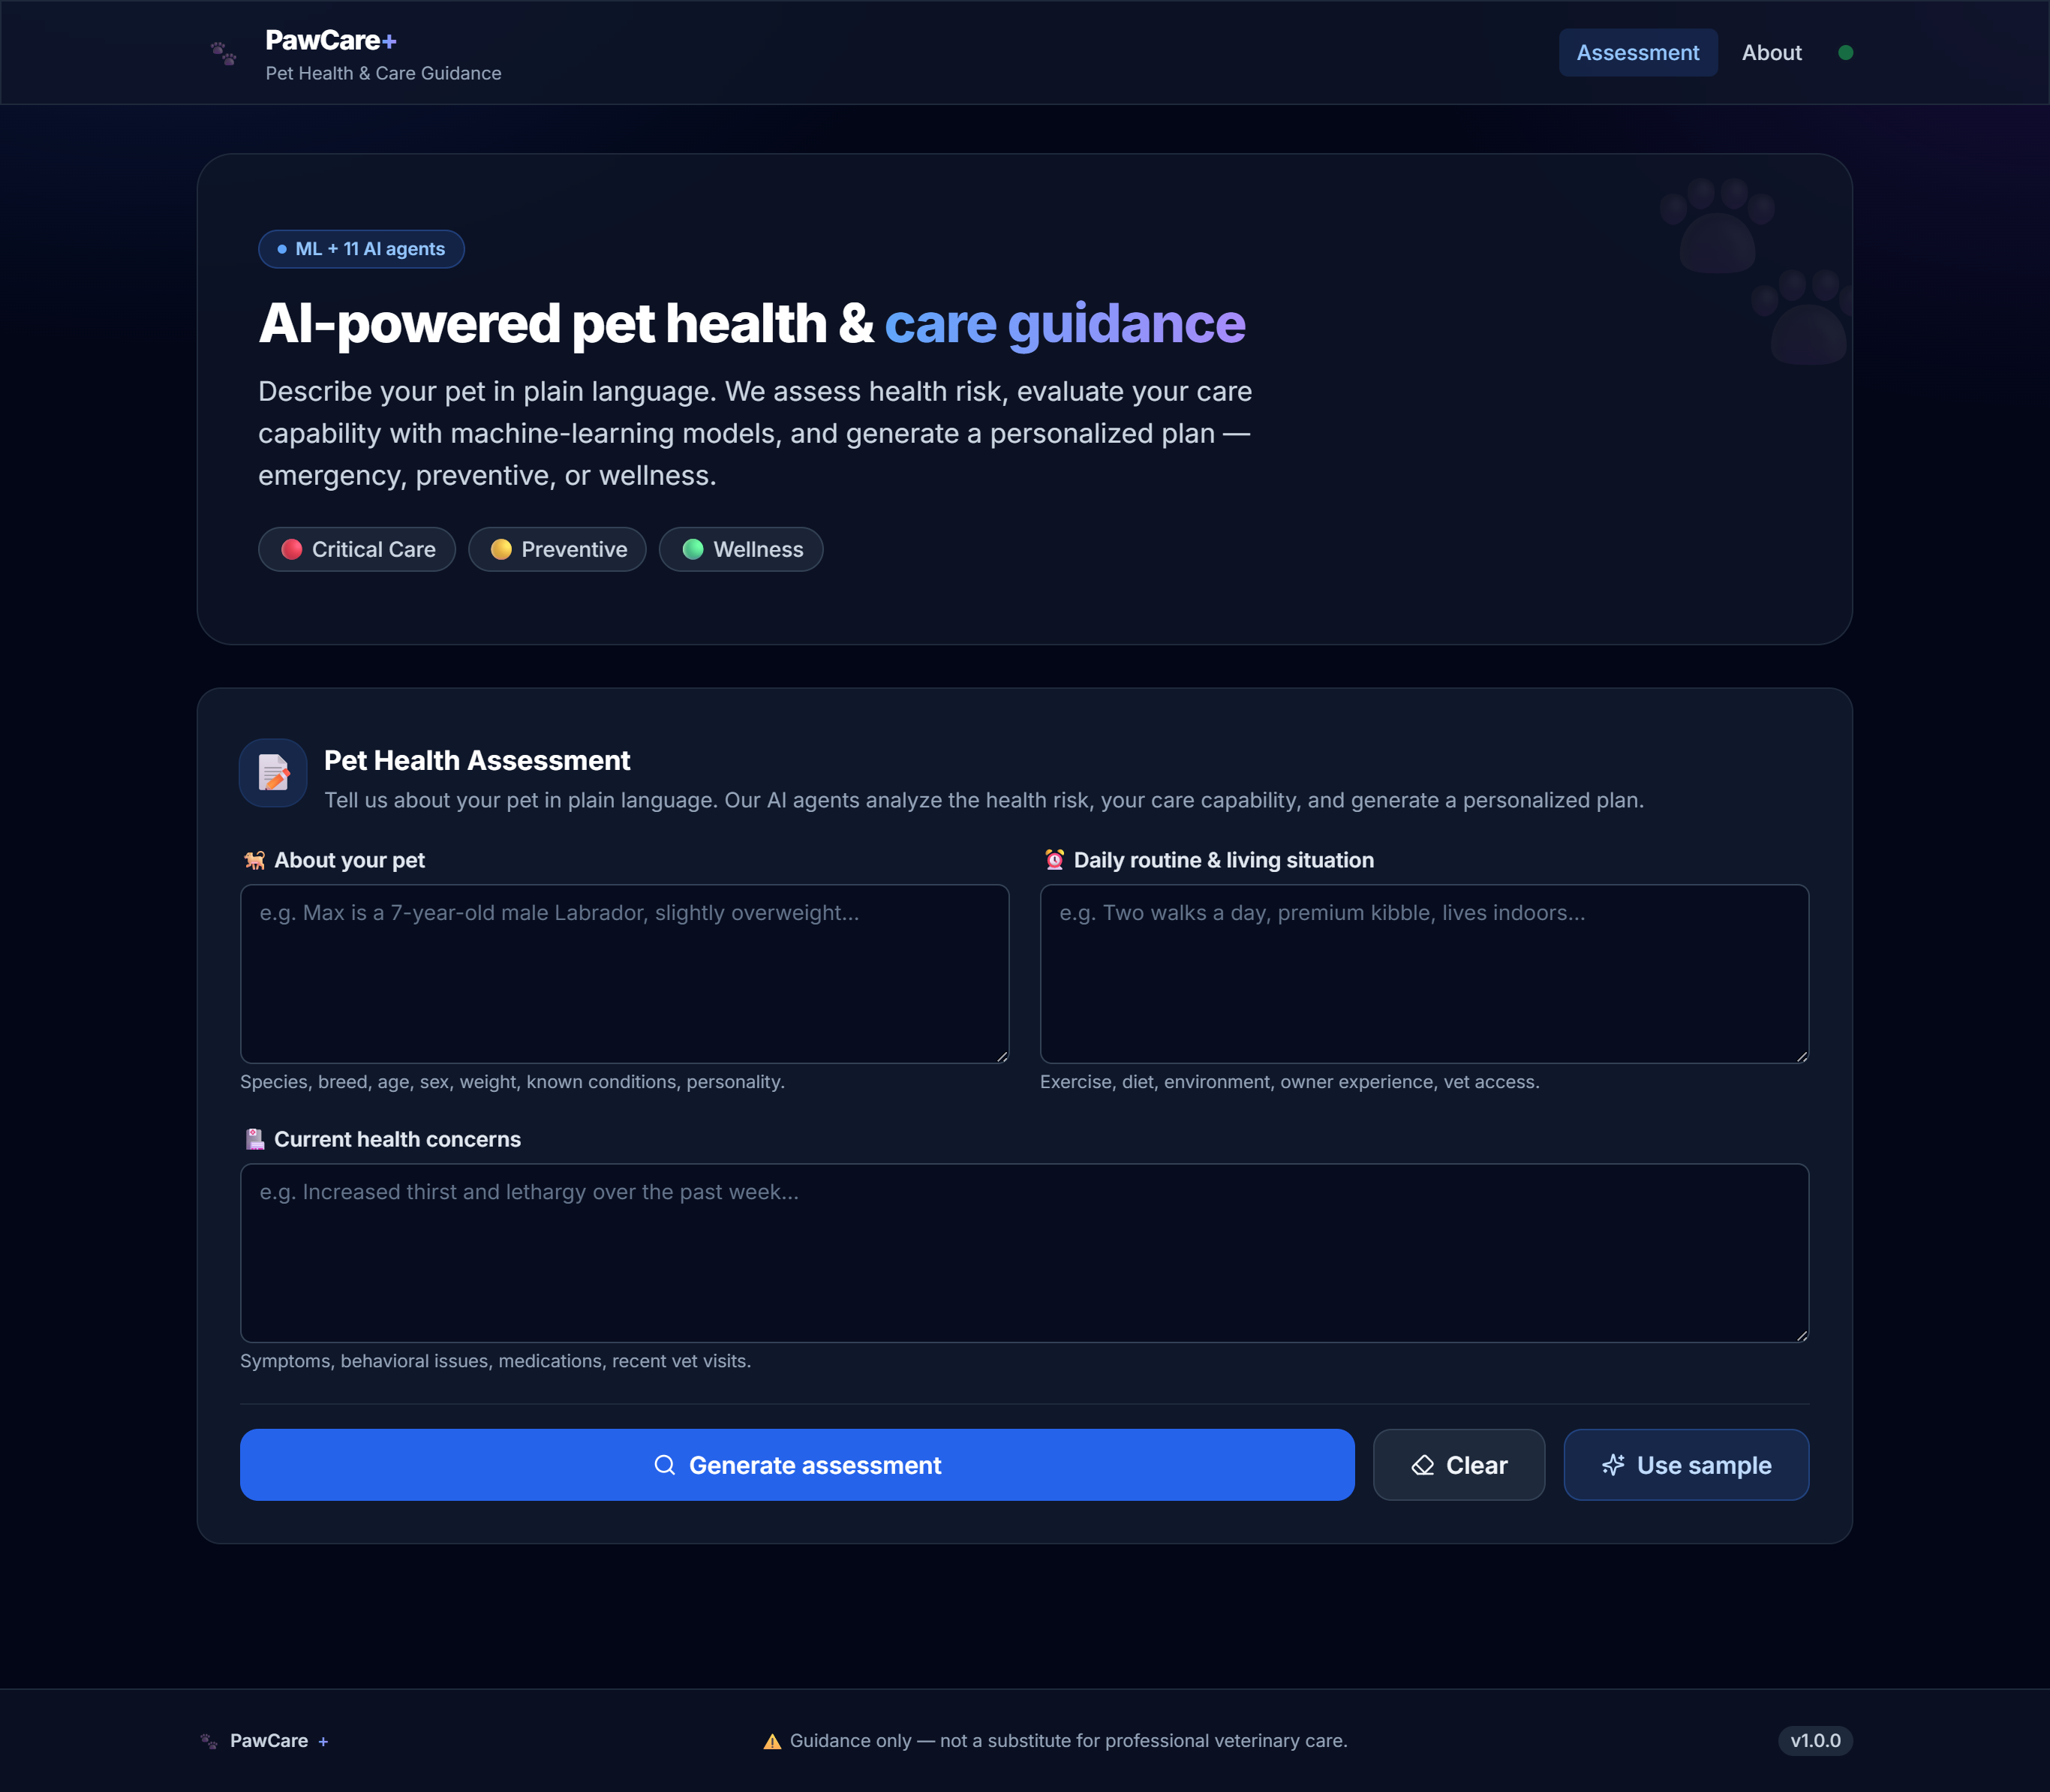
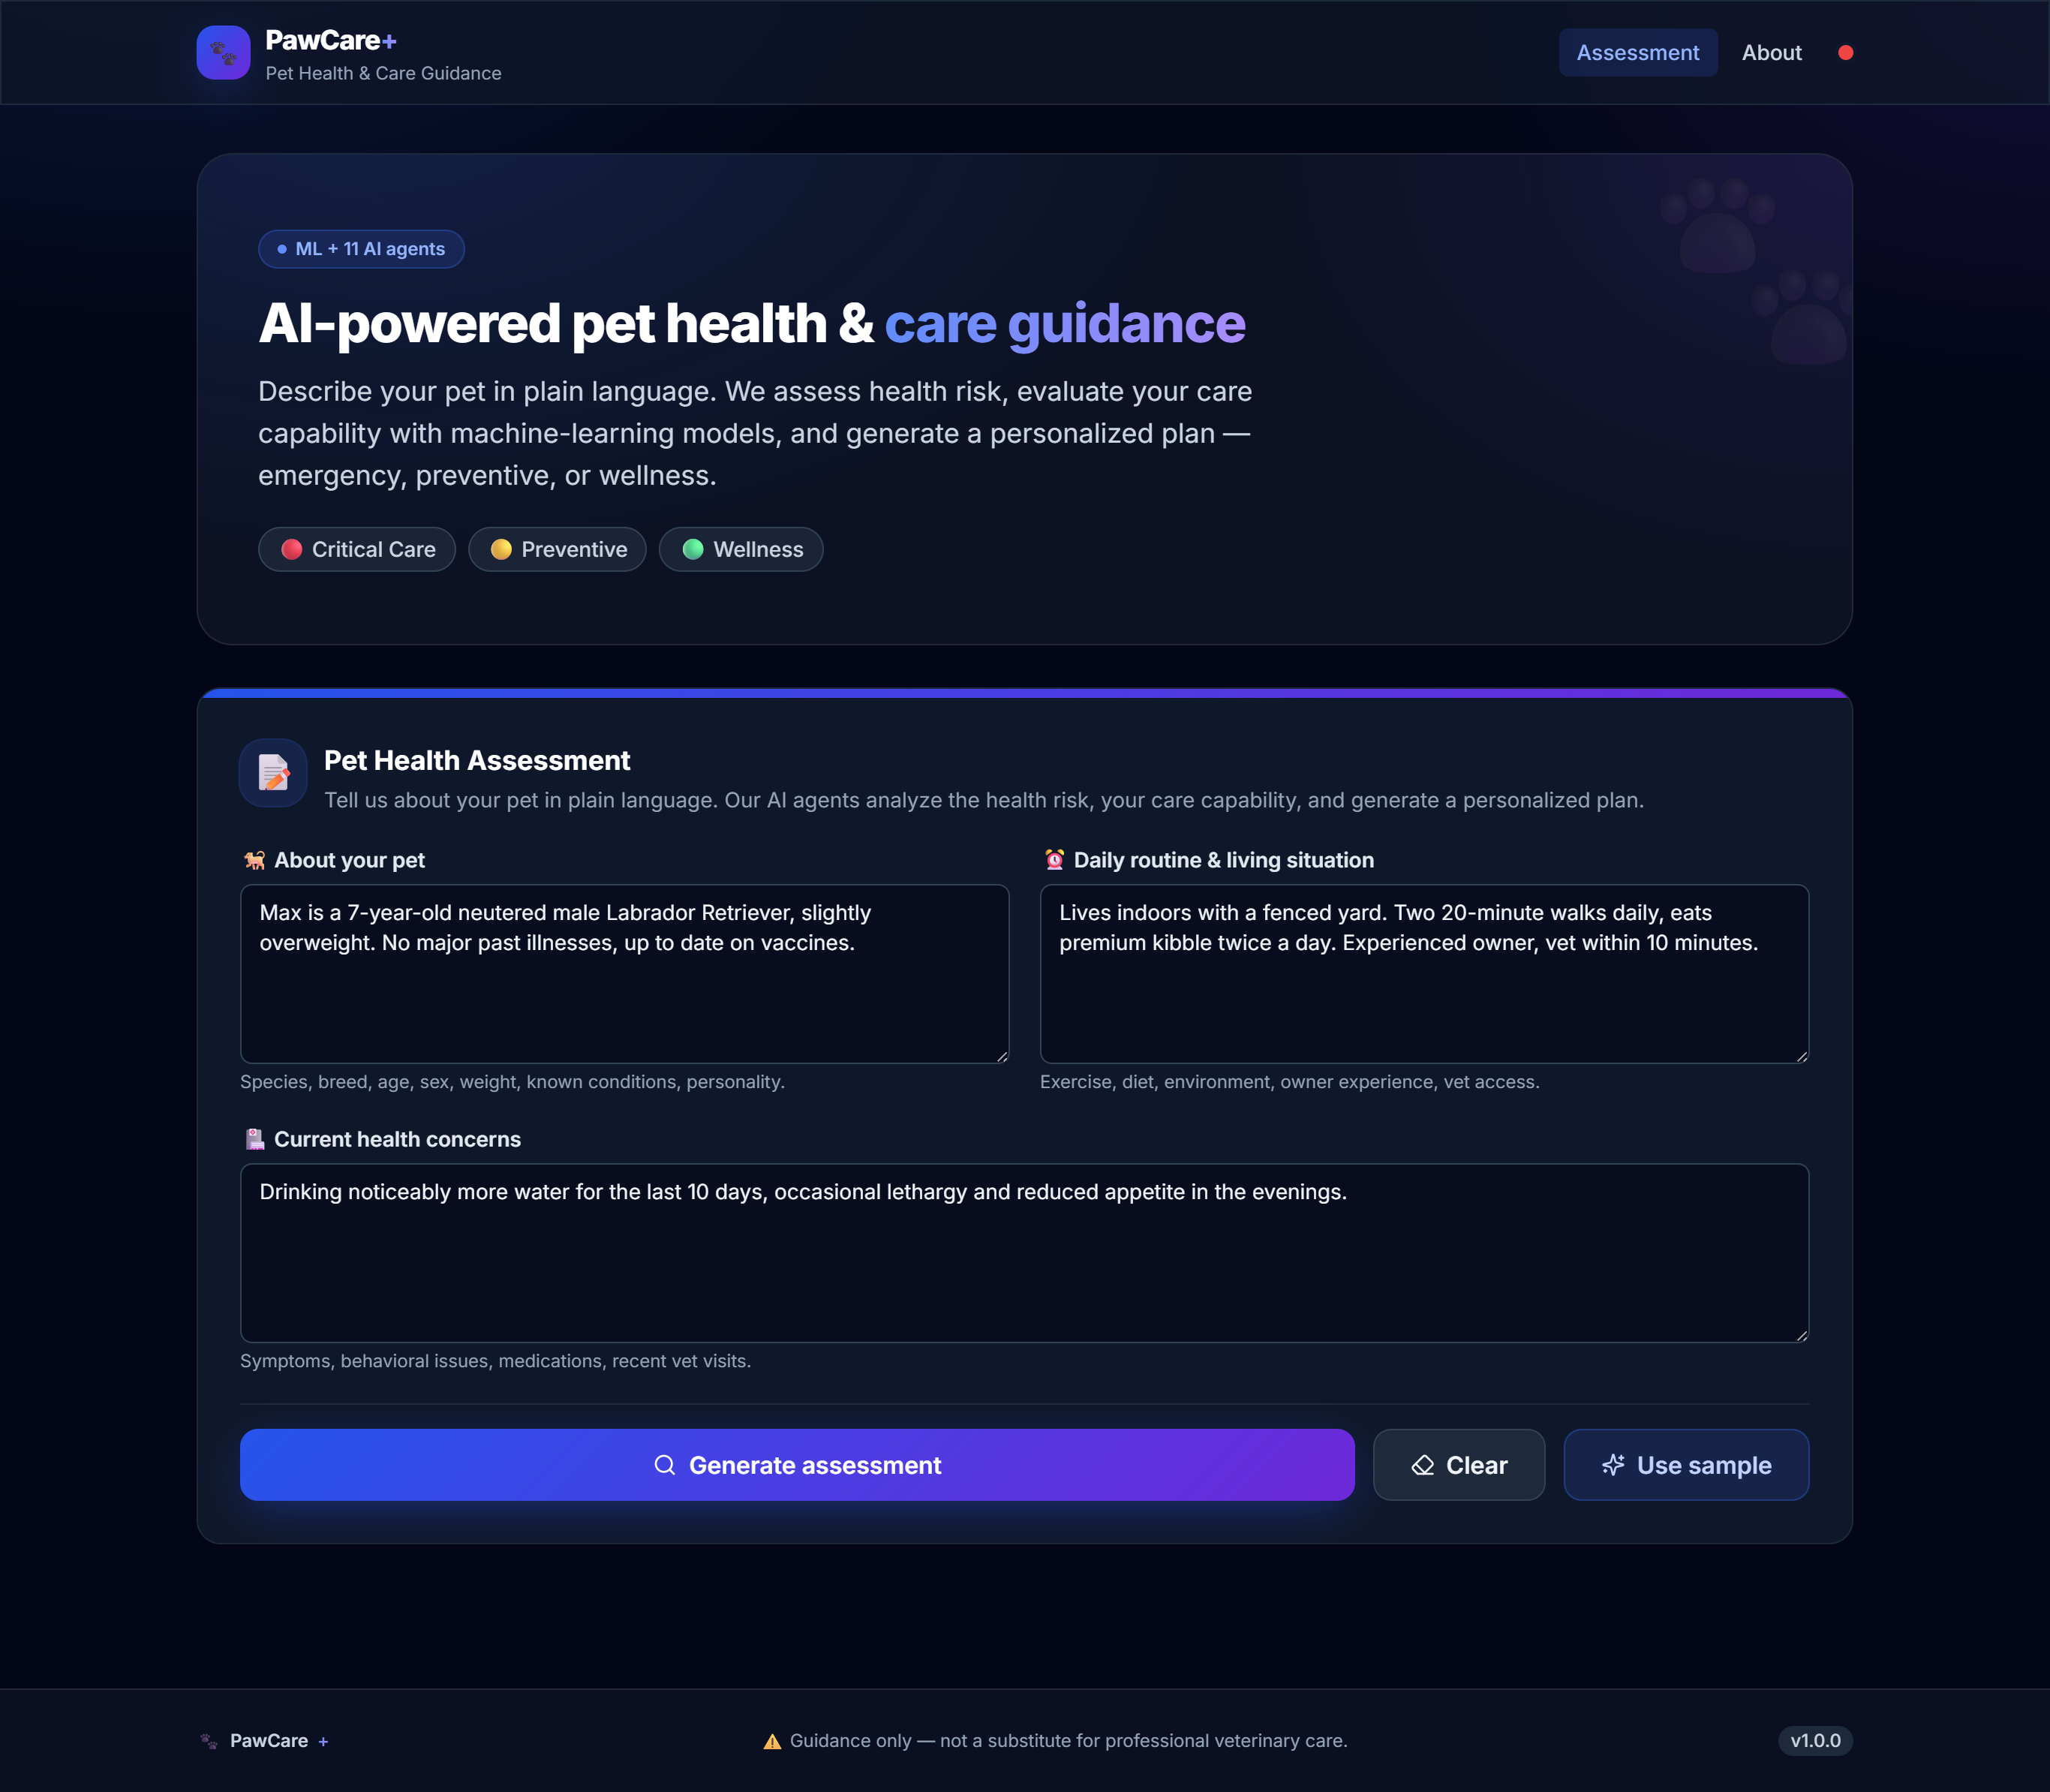
Fixed the Scripts Automation

diff --git a/README.md b/README.md
@@ -12,9 +12,9 @@ overweight Labrador with increased thirst & lethargy — was routed to the
 **Preventive Care** path: health risk **39.1%** (moderate), owner care capability
 **62/100**.
 
-**1. Assessment form (input page)**
+**1. Assessment form (input page)** — shown filled with the sample input
 
-![Assessment form](frontend/public/screenshots/01-assessment-form.png)
+![Assessment form filled with sample input](frontend/public/screenshots/01-assessment-form.png)
 
 **2. Results → Overview tab** (care-path banner + risk/care gauges)
 
@@ -829,6 +829,3 @@ The project demonstrates:
 *PawCare+ - AI-Powered Pet Health Guidance System*
 *Version 1.0.0*
 
-# PawCare---AI-Pet-Health-Guidance-System
-# PawCare-AI-Pet-Health-Guidance-System
-# PawCare-AI-Pet-Health-Guidance-System